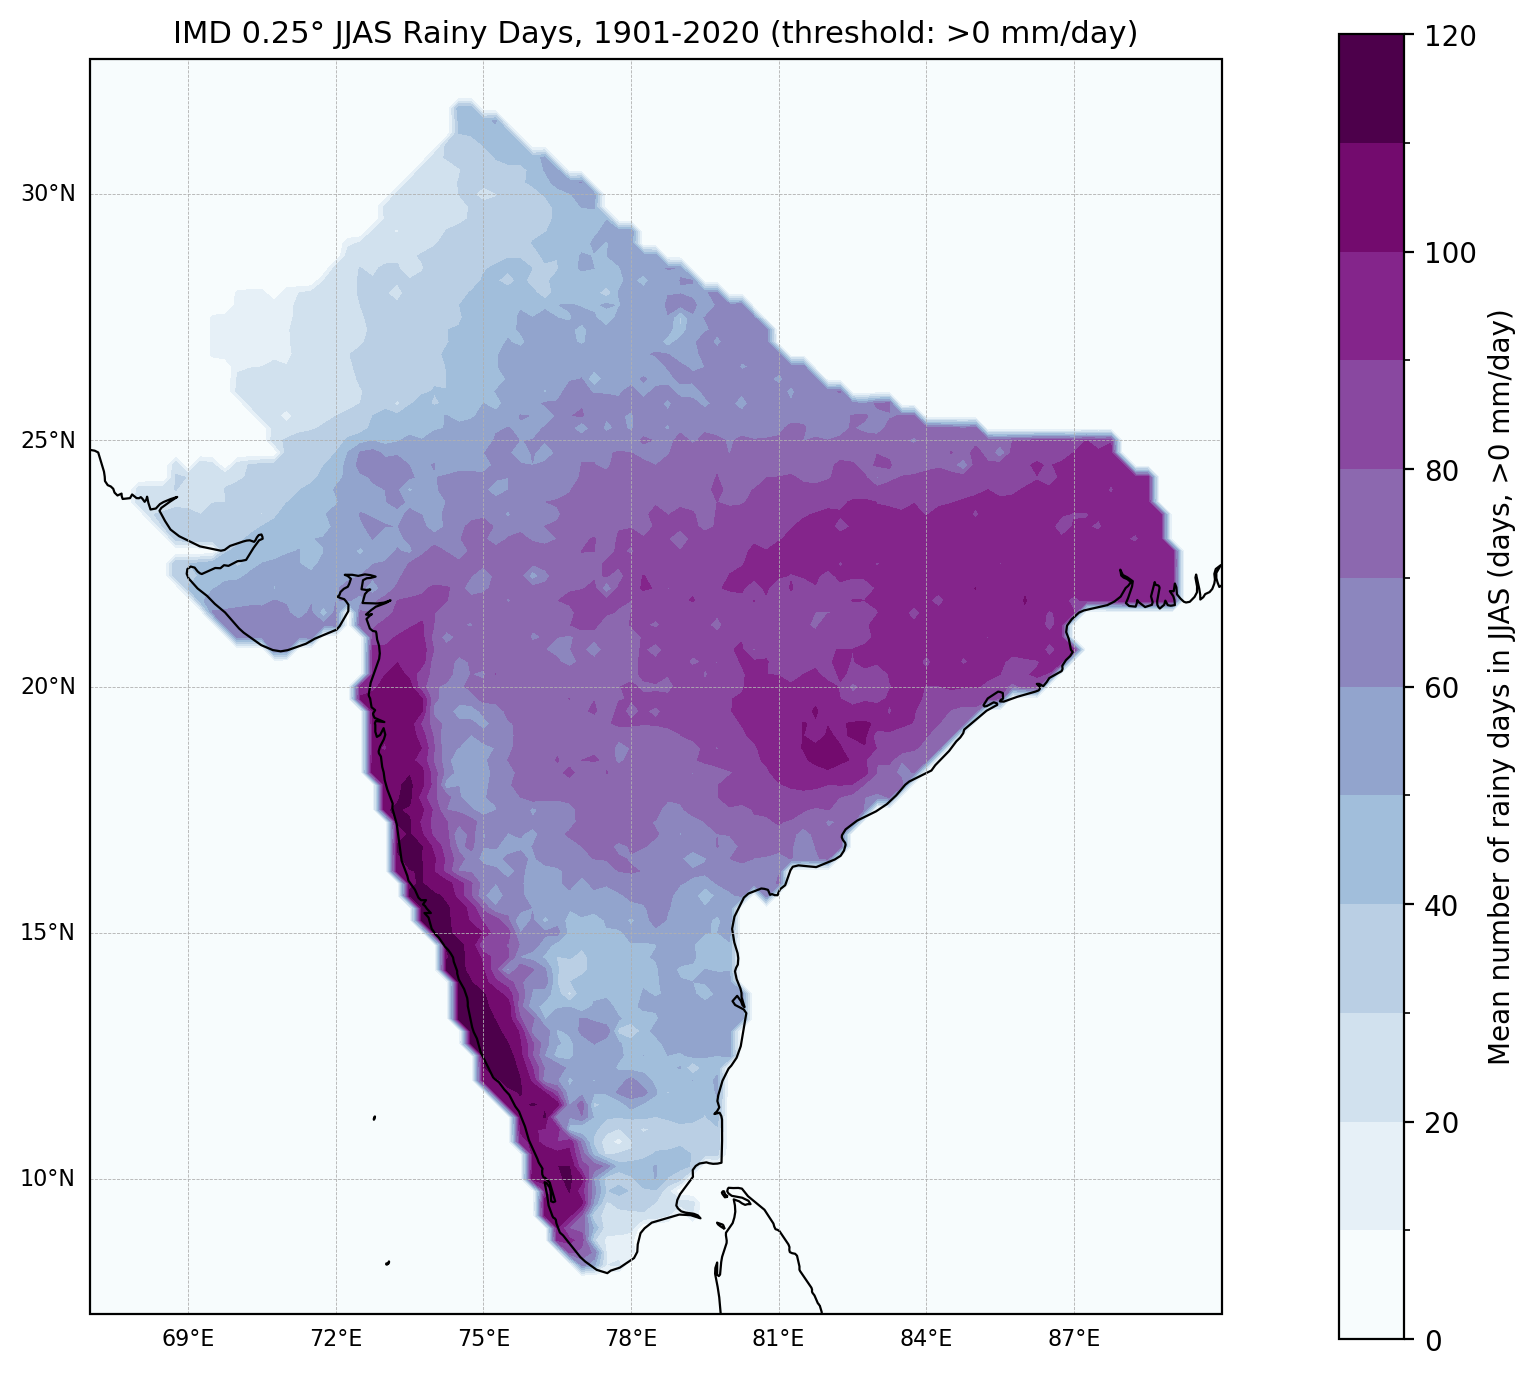
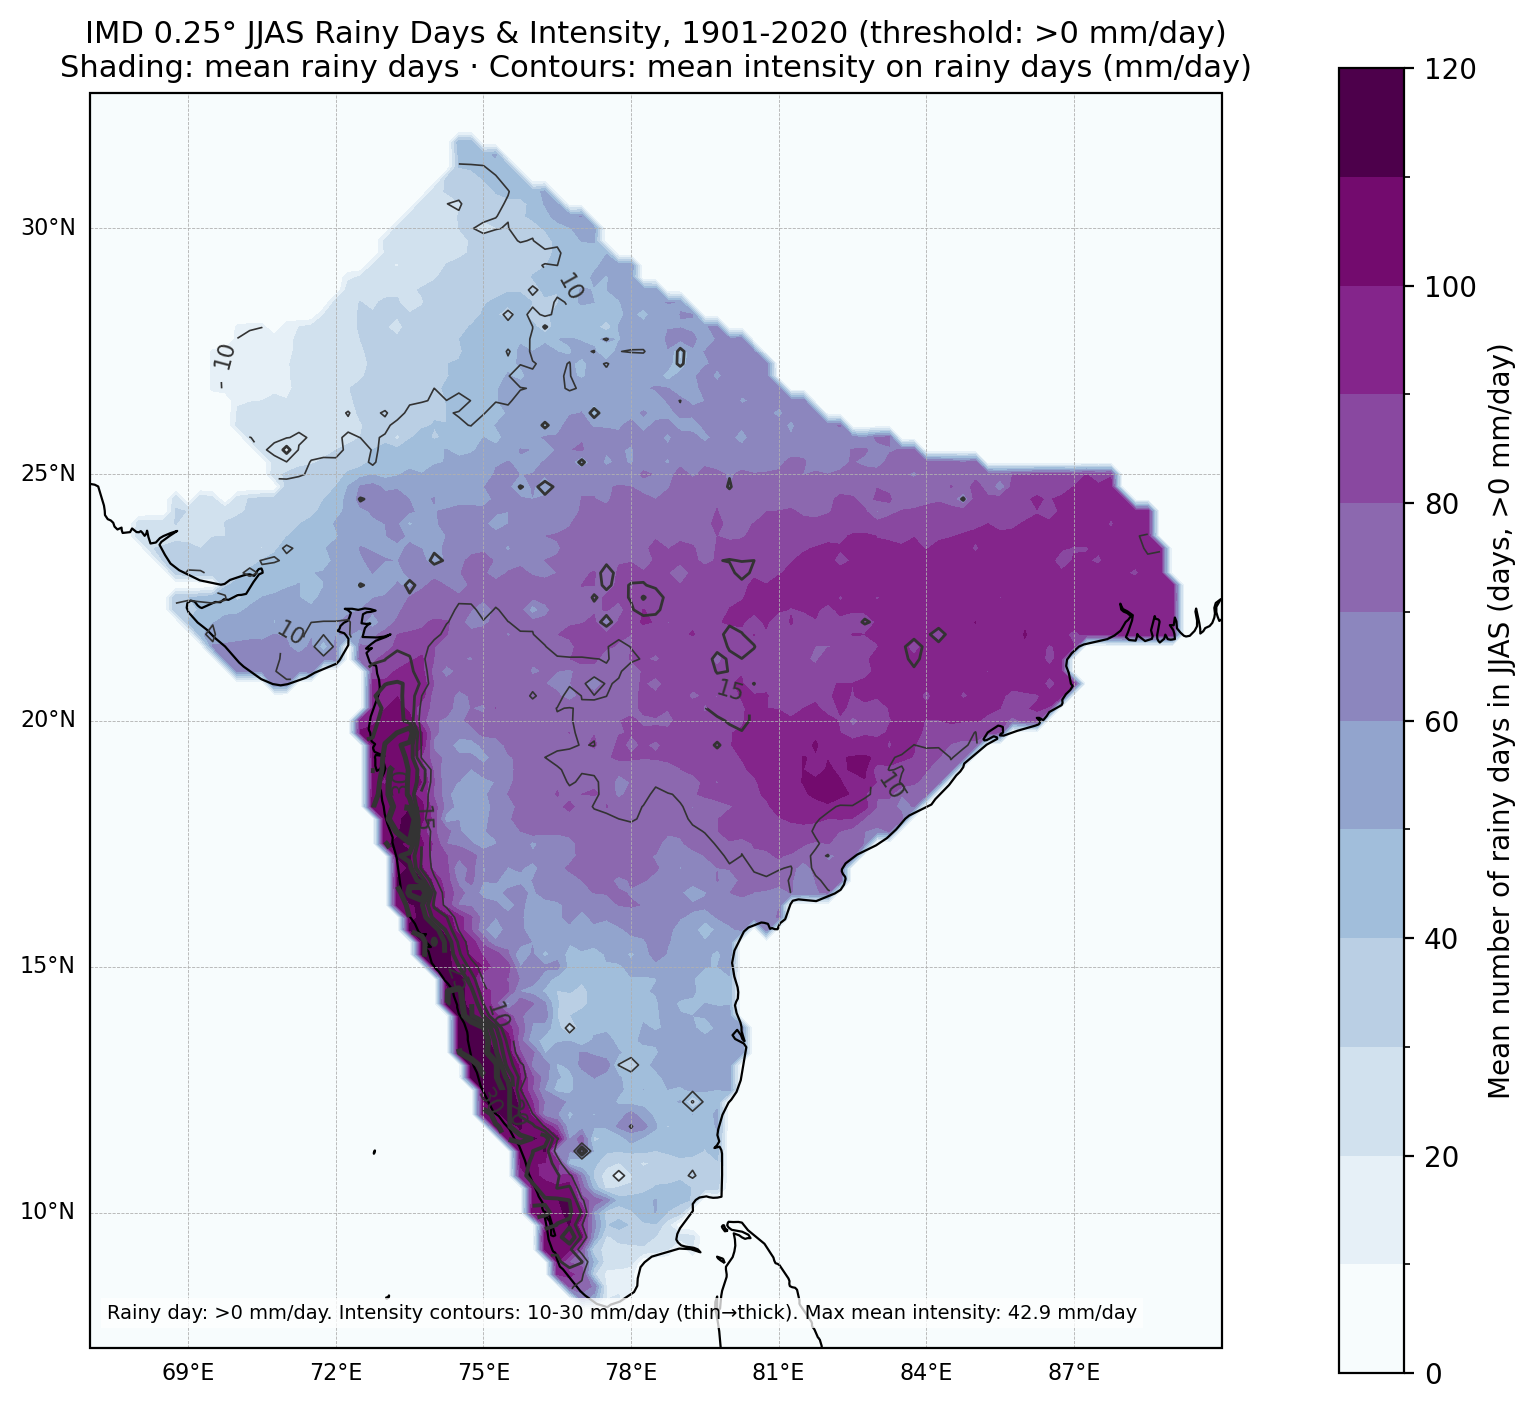
Add intensity contours to threshold variants; BuPu fraction color variant
- plot_jjas_rainy_days_0mm.py / _1mm.py: added mean-intensity-on-rainy-days
  contours (same 10-30 mm/day levels/style as the 2.5mm figure) and a max-
  intensity text annotation, for direct visual comparability across all three
  thresholds.
- plot_jjas_rainfall_fraction.py: refactored to emit a second color-scheme
  variant (BuPu, matching the rainy-days figures) alongside the original
  YlOrRd, for a side-by-side comparison. This metric is totals-based, not a
  rainy-day count, so it doesn't need updating when the rainy-day threshold
  changes - noted in the docstring.

diff --git a/plot_jjas_rainfall_fraction.py b/plot_jjas_rainfall_fraction.py
@@ -2,6 +2,16 @@
 IMD 0.25 deg gridded rainfall, 1901-2020: climatological fraction of annual-mean
 rainfall that falls during JJAS (shaded), with surface elevation (contours).
 
+This metric is computed from rainfall TOTALS (sums), not a rainy-day count, so
+it has no "rainy day threshold" to keep in sync with
+plot_jjas_rainy_days_*.py/compare_rainy_day_thresholds.py - nothing to update
+there when that threshold changes.
+
+Generates 2 color-scheme variants for side-by-side comparison:
+  1. jjas_rainfall_fraction_elevation.png       - YlOrRd (original)
+  2. jjas_rainfall_fraction_elevation_bupu.png  - BuPu, matching the rainy-days
+                                                   figures' color scheme
+
 Map framing (tight extent to the data domain, no political borders) matches the
 "optimal" variant chosen in plot_jjas_climatology.py. Elevation contours use a
 single dark color with increasing linewidth per level (not grayscale) for the
@@ -46,48 +56,55 @@ max_elev = float(elevation.max())
 print(f"Max elevation in domain: {max_elev:.0f} m")
 
 DATA_EXTENT = [67.0, 90.0, 7.25, 32.75]  # matches plot_jjas_climatology.py
-
-fig, ax = plt.subplots(figsize=(8, 9), subplot_kw={'projection': ccrs.PlateCarree()})
-ax.set_facecolor('#eaf2f8')
-
-fraction_pct.plot.contourf(
-    ax=ax, transform=ccrs.PlateCarree(),
-    levels=np.arange(0, 101, 5), extend='neither', cmap='YlOrRd',
-    add_colorbar=True,
-    cbar_kwargs={'label': 'JJAS share of annual-mean rainfall (%)', 'shrink': 0.75, 'pad': 0.08},
-)
-
-elev_levels = [100, 300, 500, 700, 900]
-elev_linewidths = [0.6, 1.0, 1.4, 1.8, 2.2]
-cs = elevation.plot.contour(
-    ax=ax, transform=ccrs.PlateCarree(),
-    levels=elev_levels, colors='#333333', linewidths=elev_linewidths,
-)
-ax.clabel(cs, inline=True, fontsize=8, fmt='%d')
-
-ax.add_feature(cfeature.COASTLINE, linewidth=0.8)
-ax.set_extent(DATA_EXTENT, crs=ccrs.PlateCarree())
-
-gl = ax.gridlines(draw_labels=True, linewidth=0.3, linestyle='--')
-gl.top_labels = False
-gl.right_labels = False
-gl.xlabel_style = {'size': 8}
-gl.ylabel_style = {'size': 8}
-
 year0, year1 = int(precip['time.year'].values[0]), int(precip['time.year'].values[-1])
-ax.set_title(
-    f'IMD 0.25° JJAS Share of Annual Rainfall, {year0}-{year1}\n'
-    'Shading: % of annual rainfall falling in JJAS · Contours: elevation (m)',
-    fontsize=11,
-)
 
-ax.text(
-    0.015, 0.02,
-    f'Elevation contours: 100-900 m (thin→thick). Max elevation in domain: {max_elev:.0f} m',
-    transform=ax.transAxes, fontsize=7, va='bottom', ha='left',
-    bbox=dict(facecolor='white', alpha=0.75, edgecolor='none', pad=2),
-)
 
-plt.tight_layout()
-plt.savefig('figures/jjas_rainfall_fraction_elevation.png', dpi=200, bbox_inches='tight')
-print('Saved figures/jjas_rainfall_fraction_elevation.png')
+def render(filename, cmap):
+    fig, ax = plt.subplots(figsize=(8, 9), subplot_kw={'projection': ccrs.PlateCarree()})
+    ax.set_facecolor('#eaf2f8')
+
+    fraction_pct.plot.contourf(
+        ax=ax, transform=ccrs.PlateCarree(),
+        levels=np.arange(0, 101, 5), extend='neither', cmap=cmap,
+        add_colorbar=True,
+        cbar_kwargs={'label': 'JJAS share of annual-mean rainfall (%)', 'shrink': 0.75, 'pad': 0.08},
+    )
+
+    elev_levels = [100, 300, 500, 700, 900]
+    elev_linewidths = [0.6, 1.0, 1.4, 1.8, 2.2]
+    cs = elevation.plot.contour(
+        ax=ax, transform=ccrs.PlateCarree(),
+        levels=elev_levels, colors='#333333', linewidths=elev_linewidths,
+    )
+    ax.clabel(cs, inline=True, fontsize=8, fmt='%d')
+
+    ax.add_feature(cfeature.COASTLINE, linewidth=0.8)
+    ax.set_extent(DATA_EXTENT, crs=ccrs.PlateCarree())
+
+    gl = ax.gridlines(draw_labels=True, linewidth=0.3, linestyle='--')
+    gl.top_labels = False
+    gl.right_labels = False
+    gl.xlabel_style = {'size': 8}
+    gl.ylabel_style = {'size': 8}
+
+    ax.set_title(
+        f'IMD 0.25° JJAS Share of Annual Rainfall, {year0}-{year1}\n'
+        'Shading: % of annual rainfall falling in JJAS · Contours: elevation (m)',
+        fontsize=11,
+    )
+
+    ax.text(
+        0.015, 0.02,
+        f'Elevation contours: 100-900 m (thin→thick). Max elevation in domain: {max_elev:.0f} m',
+        transform=ax.transAxes, fontsize=7, va='bottom', ha='left',
+        bbox=dict(facecolor='white', alpha=0.75, edgecolor='none', pad=2),
+    )
+
+    plt.tight_layout()
+    plt.savefig(f'figures/{filename}', dpi=200, bbox_inches='tight')
+    plt.close(fig)
+    print(f'Saved figures/{filename}')
+
+
+render('jjas_rainfall_fraction_elevation.png', cmap='YlOrRd')
+render('jjas_rainfall_fraction_elevation_bupu.png', cmap='BuPu')

diff --git a/plot_jjas_rainy_days_0mm.py b/plot_jjas_rainy_days_0mm.py
@@ -1,10 +1,13 @@
 """
 IMD 0.25 deg gridded rainfall, 1901-2020: climatological mean number of rainy
-days in JJAS, using a >0 mm/day threshold (i.e. any day with measurable rain).
+days in JJAS (shaded), with mean rainfall intensity on rainy days (contours),
+using a >0 mm/day threshold (i.e. any day with measurable rain).
 
 Companion to plot_jjas_rainy_days_1mm.py and plot_jjas_rainy_days_intensity.py
 (which uses the standard IMD >=2.5 mm/day threshold) - see
-compare_rainy_day_thresholds.py for how much the threshold choice matters.
+compare_rainy_day_thresholds.py for how much the threshold choice matters. Uses
+the same intensity contour levels (10-30 mm/day) as that script so the three
+are directly comparable at a glance.
 """
 import xarray as xr
 import numpy as np
@@ -22,9 +25,11 @@ n_years = len(np.unique(jjas['time.year'].values))
 RAINY_DAY_THRESHOLD = 0  # mm/day - any measurable (nonzero) rainfall
 rainy_mask = jjas > RAINY_DAY_THRESHOLD
 mean_rainy_days = rainy_mask.sum(dim='time') / n_years
+mean_intensity = jjas.where(rainy_mask).mean(dim='time')
 
 print(f"{n_years} years | threshold >{RAINY_DAY_THRESHOLD} mm/day | "
-      f"mean rainy days range: {float(mean_rainy_days.min()):.1f}-{float(mean_rainy_days.max()):.1f} days")
+      f"mean rainy days range: {float(mean_rainy_days.min()):.1f}-{float(mean_rainy_days.max()):.1f} days "
+      f"| mean intensity range: {float(mean_intensity.min()):.1f}-{float(mean_intensity.max()):.1f} mm/day")
 
 DATA_EXTENT = [67.0, 90.0, 7.25, 32.75]  # matches other figures in this project
 
@@ -39,6 +44,14 @@ mean_rainy_days.plot.contourf(
                  'shrink': 0.75, 'pad': 0.08},
 )
 
+intensity_levels = [10, 15, 20, 25, 30]
+intensity_linewidths = [0.6, 1.0, 1.4, 1.8, 2.2]
+cs = mean_intensity.plot.contour(
+    ax=ax, transform=ccrs.PlateCarree(),
+    levels=intensity_levels, colors='#333333', linewidths=intensity_linewidths,
+)
+ax.clabel(cs, inline=True, fontsize=8, fmt='%d')
+
 ax.add_feature(cfeature.COASTLINE, linewidth=0.8)
 ax.set_extent(DATA_EXTENT, crs=ccrs.PlateCarree())
 
@@ -50,8 +63,18 @@ gl.ylabel_style = {'size': 8}
 
 year0, year1 = int(precip['time.year'].values[0]), int(precip['time.year'].values[-1])
 ax.set_title(
-    f'IMD 0.25° JJAS Rainy Days, {year0}-{year1} (threshold: >{RAINY_DAY_THRESHOLD} mm/day)',
+    f'IMD 0.25° JJAS Rainy Days & Intensity, {year0}-{year1} (threshold: >{RAINY_DAY_THRESHOLD} mm/day)\n'
+    'Shading: mean rainy days · Contours: mean intensity on rainy days (mm/day)',
     fontsize=11,
+)
+
+max_intensity = float(mean_intensity.max())
+ax.text(
+    0.015, 0.02,
+    f'Rainy day: >{RAINY_DAY_THRESHOLD} mm/day. Intensity contours: 10-30 mm/day (thin→thick). '
+    f'Max mean intensity: {max_intensity:.1f} mm/day',
+    transform=ax.transAxes, fontsize=7, va='bottom', ha='left',
+    bbox=dict(facecolor='white', alpha=0.75, edgecolor='none', pad=2),
 )
 
 plt.tight_layout()

diff --git a/plot_jjas_rainy_days_1mm.py b/plot_jjas_rainy_days_1mm.py
@@ -1,10 +1,13 @@
 """
 IMD 0.25 deg gridded rainfall, 1901-2020: climatological mean number of rainy
-days in JJAS, using a >1 mm/day threshold.
+days in JJAS (shaded), with mean rainfall intensity on rainy days (contours),
+using a >1 mm/day threshold.
 
 Companion to plot_jjas_rainy_days_0mm.py and plot_jjas_rainy_days_intensity.py
 (which uses the standard IMD >=2.5 mm/day threshold) - see
-compare_rainy_day_thresholds.py for how much the threshold choice matters.
+compare_rainy_day_thresholds.py for how much the threshold choice matters. Uses
+the same intensity contour levels (10-30 mm/day) as that script so the three
+are directly comparable at a glance.
 """
 import xarray as xr
 import numpy as np
@@ -22,9 +25,11 @@ n_years = len(np.unique(jjas['time.year'].values))
 RAINY_DAY_THRESHOLD = 1  # mm/day
 rainy_mask = jjas > RAINY_DAY_THRESHOLD
 mean_rainy_days = rainy_mask.sum(dim='time') / n_years
+mean_intensity = jjas.where(rainy_mask).mean(dim='time')
 
 print(f"{n_years} years | threshold >{RAINY_DAY_THRESHOLD} mm/day | "
-      f"mean rainy days range: {float(mean_rainy_days.min()):.1f}-{float(mean_rainy_days.max()):.1f} days")
+      f"mean rainy days range: {float(mean_rainy_days.min()):.1f}-{float(mean_rainy_days.max()):.1f} days "
+      f"| mean intensity range: {float(mean_intensity.min()):.1f}-{float(mean_intensity.max()):.1f} mm/day")
 
 DATA_EXTENT = [67.0, 90.0, 7.25, 32.75]  # matches other figures in this project
 
@@ -39,6 +44,14 @@ mean_rainy_days.plot.contourf(
                  'shrink': 0.75, 'pad': 0.08},
 )
 
+intensity_levels = [10, 15, 20, 25, 30]
+intensity_linewidths = [0.6, 1.0, 1.4, 1.8, 2.2]
+cs = mean_intensity.plot.contour(
+    ax=ax, transform=ccrs.PlateCarree(),
+    levels=intensity_levels, colors='#333333', linewidths=intensity_linewidths,
+)
+ax.clabel(cs, inline=True, fontsize=8, fmt='%d')
+
 ax.add_feature(cfeature.COASTLINE, linewidth=0.8)
 ax.set_extent(DATA_EXTENT, crs=ccrs.PlateCarree())
 
@@ -50,8 +63,18 @@ gl.ylabel_style = {'size': 8}
 
 year0, year1 = int(precip['time.year'].values[0]), int(precip['time.year'].values[-1])
 ax.set_title(
-    f'IMD 0.25° JJAS Rainy Days, {year0}-{year1} (threshold: >{RAINY_DAY_THRESHOLD} mm/day)',
+    f'IMD 0.25° JJAS Rainy Days & Intensity, {year0}-{year1} (threshold: >{RAINY_DAY_THRESHOLD} mm/day)\n'
+    'Shading: mean rainy days · Contours: mean intensity on rainy days (mm/day)',
     fontsize=11,
+)
+
+max_intensity = float(mean_intensity.max())
+ax.text(
+    0.015, 0.02,
+    f'Rainy day: >{RAINY_DAY_THRESHOLD} mm/day. Intensity contours: 10-30 mm/day (thin→thick). '
+    f'Max mean intensity: {max_intensity:.1f} mm/day',
+    transform=ax.transAxes, fontsize=7, va='bottom', ha='left',
+    bbox=dict(facecolor='white', alpha=0.75, edgecolor='none', pad=2),
 )
 
 plt.tight_layout()

diff --git a/README.md b/README.md
@@ -34,11 +34,14 @@ large for GitHub. Only code, figures, and documentation are tracked.
 - `plot_jjas_climatology.py` — climatological JJAS mean rainfall (shaded) and interannual std. dev.
   (contoured), in 4 framing variants. See `figures/`.
 - `plot_jjas_rainfall_fraction.py` — climatological % of annual rainfall falling in JJAS (shaded), with
-  elevation (contoured).
+  elevation (contoured). Computed from rainfall totals, not a rainy-day count, so it has no threshold to
+  keep in sync with the rainy-day scripts below. Generates 2 color-scheme variants (YlOrRd and BuPu) for
+  side-by-side comparison.
 - `plot_jjas_rainy_days_intensity.py` — climatological mean number of rainy days in JJAS (shaded,
   ≥2.5 mm/day IMD threshold), mean rainfall intensity on rainy days (contoured).
-- `plot_jjas_rainy_days_0mm.py` / `plot_jjas_rainy_days_1mm.py` — same "mean rainy days" metric at two
-  other thresholds (>0 and >1 mm/day), for comparison against the IMD-standard 2.5mm figure above.
+- `plot_jjas_rainy_days_0mm.py` / `plot_jjas_rainy_days_1mm.py` — same rainy-days + intensity figure at
+  two other thresholds (>0 and >1 mm/day, same 10-30 mm/day intensity contour levels), for comparison
+  against the IMD-standard 2.5mm figure above.
 - `compare_rainy_day_thresholds.py` — quantifies how much the >0mm vs >1mm threshold choice actually
   matters: spatial Pearson r, a difference map, and a per-cell scatter/regression. Read the docstring —
   the r-value alone (~0.996) is misleadingly reassuring here; the difference map is the more informative
